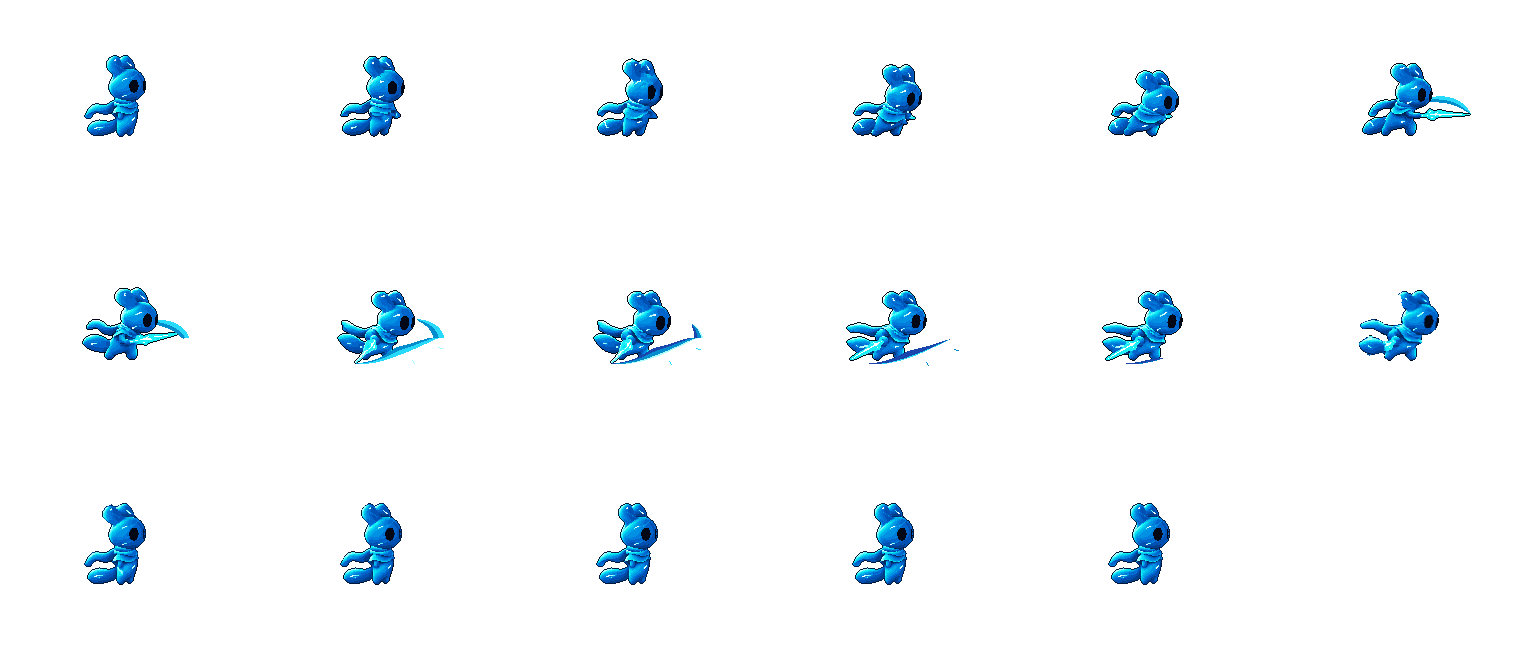
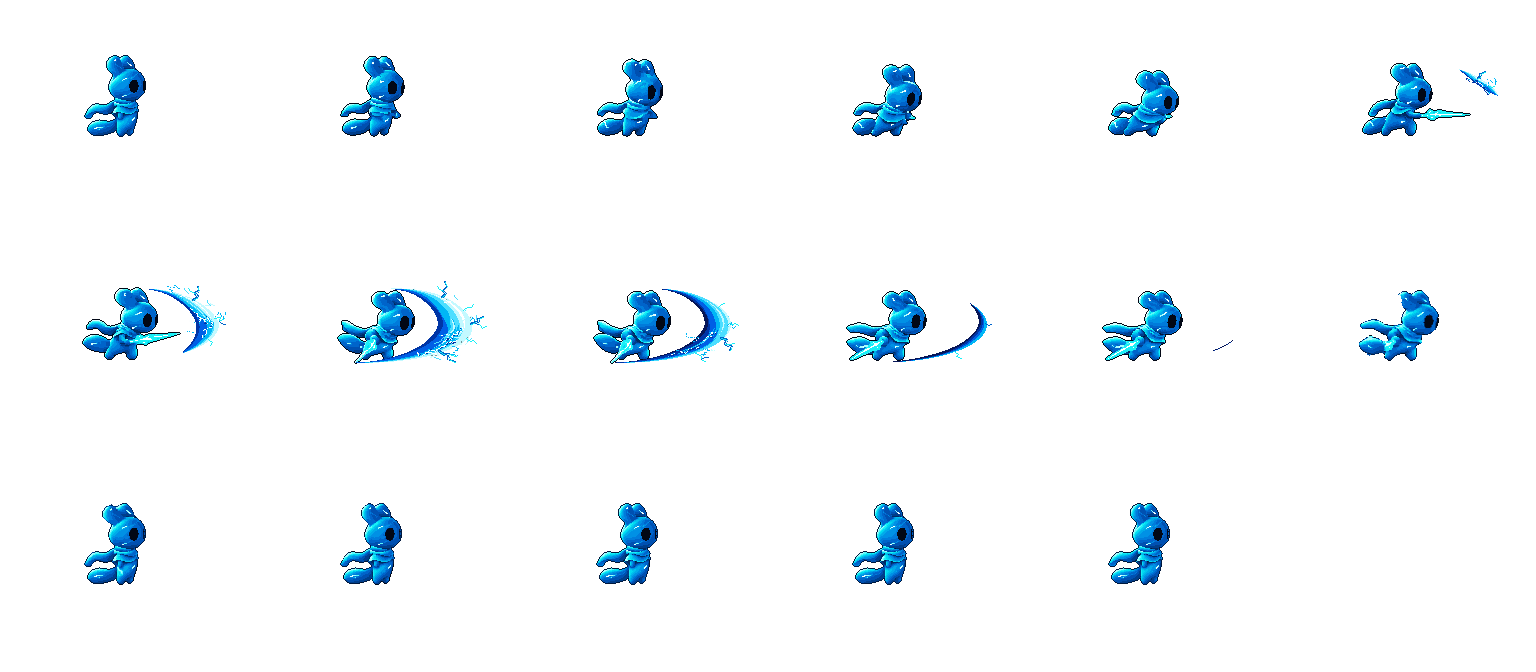
art(warden): 지상 기본 공격에 분기 방전 초승달 적용
사용자가 선택한 베기 효과를 기존 지상 공격 자세 위에 합성했다.
100ms부터 220ms까지 표시하며 준비와 회복 셀을 보존했다.

기존 시트와 대조해 효과가 들어가는 6셀만 바뀐 것을 확인했다.
기본 레벨 SDL 창의 좌우 캡처 10장과 표적 자동 검사 3개를 확인했다.
전체 회귀와 사용자 직접 플레이는 수행하지 않았다.

diff --git a/assets/warden/README.md b/assets/warden/README.md
@@ -7,7 +7,7 @@
 | idle.png | art/warden/provisional-approved/idle-side-wind-v2/idle_right/sheet.png | 6cd0b5133576e6f73cb492a0f36e114c160371c33115bda0272d877f7735d506 |
 | run_left.png | art/warden/provisional-approved/run-v4/run_left/sheet.png | 618ef3377b2682ee6d15ab4052a208f041562adcaed406a0361977ca7460940e |
 | run_right.png | art/warden/provisional-approved/run-v4/run_right/sheet.png | c29d16562b7df8a8ec927b031ef1589bdf6252467afb648f1537af60977fc3aa |
-| attack.png | `art/warden/ground-step-slash-v1`의 준비·타격 재편집, 로컬 LTX 회복 포즈, pixelfx 앞·뒤 베기 효과를 합성 | 3b65e8216153a432c954a5d8853295e21327875cd4a33df1b11c8e187dbfe130 |
+| attack.png | `art/warden/ground-step-slash-v1` 몸체 위에 `art/warden/ground-crescent-discharge-refined/slash.png`의 Pixelfx 분기 방전 초승달을 합성 | 9800402506f74ea51859119e3c6138e9f800197235f13c551397c120c338b942 |
 | air_attack.png | `art/warden/provisional-approved/air-rebound-v9-current-v4/frames` 몸체와 `art/warden/air-rebound-fx-v2/frames` 효과를 합성 | f69202c0f74a4663ad356a426df9d7e92250ea6761aea0b269d8588124599a19 |
 | prepare_idle_left.png | art/warden/provisional-approved/dash-eye-cape-v1/prepare_idle_left/sheet.png | efb9df7c2c976ace57b8a0d2448dac120bf4616e414edaa58bac91e12ae1ce1e |
 | prepare_idle_right.png | art/warden/provisional-approved/dash-eye-cape-v1/prepare_idle_right/sheet.png | 3ba433a4573f4cf45a085579ab10bf5a355c72e528446974023bc0fff342c3d0 |
@@ -32,7 +32,7 @@
 
 프레임은 좌상단부터 행 우선이다. animations.json의 기준점은 셀 좌상단 픽셀, 시간은 밀리초다. 제작용 이벤트·previewSpeed는 게임 규칙으로 가져오지 않았다.
 
-지상 공격은 256×224·6열·17프레임·340ms, 피벗 (128,136)이다. 승인 HK v6·팔 보정 v3의 포즈를 사용하고 타격 자세를 100ms부터 보여준다. 220·240·260ms에 LTX 회복 영상의 4·9·11번 포즈를 고정 배율과 기존 16색으로 변환해 사용한다. 280ms부터 기존 idle 자세로 이어진다. 베기 효과는 원본 해상도에서 그린 45px 높이의 앞·뒤 레이어로, 100ms부터 표시하고 220ms에 걷는다. 제작 원본과 미리보기는 [작업 폴더](../../art/warden/ground-step-slash-v1/contact.png)에 보존한다.
[1 lines of base64/hex data omitted]
 
 공중 공격은 192×192·6열·18프레임·300ms, 피벗 (96,112)이다. 원본 몸체를 유지하고 분리 효과를 칼끝 (156,155)을 기준으로 최근접 보간해 최대 높이 83px로 축소하여 몸체 뒤에 합성했다. 효과는 117ms부터 표시되고 250ms에 사라진다.
 

diff --git a/specs/020-combat-reimplementation/verification.md b/specs/020-combat-reimplementation/verification.md
@@ -119,3 +119,18 @@ $groundSmoke = Join-Path $env:TEMP 'circuit-warden-ground-contact-smoke'
 .\.venv\Scripts\python.exe -B -m tests.smoke.character_smoke --output-dir $groundSmoke
 git diff --check
 ```
+
+## 지상 기본 공격 분기 방전 초승달
+
+- **FR-011** — 2026-11-24 사용자 적용 지시에 따라 선택한 6프레임을 기존 몸체 위에 베이크했다. 기존 시트에서 변경된 셀은 0부터 세어 5~10뿐이다. 기존 몸체 원본에 선택한 효과를 같은 발 피벗으로 합성했고, 새 효과의 높이는 프레임 순서대로 28·69·82·74·59·11px다. PNG를 다시 열어 픽셀 일치와 셀 경계 내 표시를 확인했다.
+- **SC-007** — 기본 실행과 동일한 전원 구역을 실제 SDL 창 1280×720으로 열고 J를 주입했다. 좌우 각 80·100·140·200·220ms 캡처를 열어 비교했다. 80ms에는 효과가 없고 100ms에 첫 방전, 140ms에 최대 초승달, 200ms에 마지막 잔광이 보였으며 220ms에는 사라졌다. 좌측은 우측 자산을 반전해 표시한다. [SDL 캡처](../../.local-tools/verification/ground-attack-discharge/timing-contact.png).
+- **표적 자동 검사** — 아래 지상 공격 입력·좌우 표시·적중 검사 3개가 통과했다. 전체 회귀와 사용자 직접 플레이는 수행하지 않았다.
+- **수렴** — 이번 변경의 명세·계획·작업을 게임 시트, 기본 레벨 런타임 및 검사 근거와 대조했다. 아트 기준·기본 게임플레이·진행 상태·자산 출처를 맞췄다. 런타임 코드와 공중 공격 자산을 수정할 필요는 없었다.
+
+```powershell
+.\.local-tools\python\Scripts\python.exe .local-tools/verification/ground-attack-discharge/bake.py
+.\.venv\Scripts\python.exe .local-tools/verification/ground-attack-discharge/smoke.py
+.\.venv\Scripts\python.exe -m unittest tests.integration.test_character_scene.CharacterSceneTests.test_buffered_ground_attack_preserves_first_composite_frame_after_slow_frame tests.integration.test_character_scene.CharacterSceneTests.test_ground_attack_plants_then_runs_in_latest_direction
+.\.venv\Scripts\python.exe -m unittest tests.integration.test_basic_enemy.BasicEnemySceneTests.test_real_attack_sheet_hits_three_times_in_both_directions
+git diff --check
+```

diff --git a/specs/020-combat-reimplementation/spec.md b/specs/020-combat-reimplementation/spec.md
@@ -41,6 +41,7 @@
 - **FR-008**: 기본 수평 이동과 공중 공격 중의 조향을 빠르게 한다. 대시와 강제 이동에는 기존 전용 수치를 적용한다.
 - **FR-009**: 착지 전 유효한 새 Space 입력과 착지 모션 중 새 Space 입력에 재이륙으로 응답한다. 실제 지면 접촉과 기존 행동 우선순위를 적용하며, 한 번의 입력으로 한 번만 뛴다. 눌렀다 놓은 입력은 짧은 점프를 실행한다.
 - **FR-010**: 지상 기본 공격의 준비와 타격에는 A/D 이동을 멈추고, 이동 키를 유지하면 타격 뒤 회복 중 달리기를 이어간다. 베기 궤적은 검이 전방을 통과할 때 강조하고 회복에 들어서기 전에 빠르게 사라진다.
+- **FR-011**: 사용자가 선택한 분기 방전 초승달을 지상 기본 공격의 몸체 위에 표시한다. 효과는 공격 시작 후 100ms에 나타나고 140ms에 가장 크게 펼쳐지며 220ms에 사라진다. 좌측은 수평 반전한다. 공격 자세, 피해·충돌·입력 규칙과 공중 공격에는 기존 계약을 적용한다.
 
 ## Success Criteria (mandatory)
 
@@ -50,3 +51,4 @@
 - **SC-004**: 열린 평지에서 이륙 지연 50ms 미만, 탭·중간·최대 높이의 순서, 기존 대비 기본 이동 25% 이상 증가를 확인한다. 훈련장의 발판 착지와 벽 정지도 다시 확인한다.
 - **SC-005**: 평지와 발판에서 유효한 선입력은 충돌 시점에 상승으로 전환하고, 만료된 입력은 기본 착지 모션으로 이어진다. 갱신을 나눠도 같은 결과를 얻고 SDL 창에서 Space 입력으로 연속 점프를 확인한다.
 - **SC-006**: 정지·달리기·방향 전환으로 들어간 지상 공격에서 타격 동안 몸통 위치와 공격 방향을 유지하고, 회복 중 최근 방향 입력에 반응한다. 실제 게임 배율에서 검끝의 이동과 베기 궤적을 좌우 모두 확인한다.
+- **SC-007**: 런타임 지상 공격 시트에서 선택한 효과 6프레임의 합성과 준비·회복 셀 보존을 확인한다. 실제 기본 레벨 SDL 창에서 효과의 시작·정점·소멸과 좌우 표시를 확인한다.

diff --git a/docs/progress.md b/docs/progress.md
@@ -6,7 +6,7 @@
 
 - **첫 레벨 전원 구역:** 2026-11-24 사용자 요청으로 컴퓨터 파워서플라이 내부를 기본 실행에 연결하고 환경 원화에 hi-bit 가공을 적용했다. 흡기구, 방열판, 코일·콘덴서, 출력 단자를 배치했다. [명세](../specs/021-power-supply-level/spec.md) · [계획](../specs/021-power-supply-level/plan.md) · [검증](../specs/021-power-supply-level/verification.md).
 
-- **지상 공격 접지·베기 효과 조정:** 사용자 피드백에 따라 지상 타격 중 이동을 멈추고 240ms부터 유지 중인 방향으로 달리기를 이어간다. 기존 타격 포즈 편집과 로컬 생성 회복 자세, 짧은 검끝 궤적을 훈련장에 적용했다. 관련 자동 검사 116개와 SDL 창 검사 두 개를 통과했다. 사용자 직접 조작감과 미술 평가는 남아 있다. [미리보기](../art/warden/ground-step-slash-v1/light.gif) · [검증](../specs/020-combat-reimplementation/verification.md#지상-공격-접지와-베기).
+- **지상 기본 공격 분기 방전 초승달:** 2026-11-24 사용자 요청으로 선택한 효과를 기본 레벨과 훈련장이 공유하는 지상 공격 시트에 적용했다. 효과가 들어가는 6셀을 교체했고, 실제 기본 레벨 SDL 창에서 좌우 시작·정점·소멸을 확인했다. 사용자 직접 플레이 평가는 남아 있다. [합성 미리보기](../art/warden/ground-crescent-discharge-refined/preview-dark-quarter.gif) · [검증](../specs/020-combat-reimplementation/verification.md#지상-기본-공격-분기-방전-초승달).
 
 - **착지 재점프 반응 조정:** 2026-11-23 사용자 피드백에 따라 Celeste의 착지 선입력을 참고했다. 공중 Space를 120ms 동안 저장하고 바닥이나 발판에 닿으면 즉시 재이륙한다. 기본 착지 모션 중 새 Space도 즉시 실행한다. 2단 점프는 보류하며 실제 조작감은 사용자 플레이로 재확인한다. [명세](../specs/020-combat-reimplementation/spec.md) · [검증](../specs/020-combat-reimplementation/verification.md#착지-시점의-재점프).
 

diff --git a/specs/020-combat-reimplementation/plan.md b/specs/020-combat-reimplementation/plan.md
@@ -39,3 +39,7 @@
 ## Follow-up: 지상 공격 접지와 베기
 
 지상 공격 동안 이동 키로 인한 수평 이동을 멈춘다. 이동 입력이 있으면 240ms부터 회복을 달리기로 연결하고, 미입력 시 준비·타격·회복 340ms를 재생한다. 공격 시작과 피해 유효 구간, 공격 방향, 공중 공격의 조향은 기존 규칙을 사용한다. 긴 갱신은 달리기로 전환되는 시각에서 나눠 남은 시간만 수평 이동에 반영한다. 기존 원화로 새 공격 영상을 생성해 접지·검 궤적·디자인을 확인하고, 통과한 자세를 같은 피벗·크기로 쓴다. 효과는 검이 전방을 통과하는 핵심 구간에 맞춰 베이크한다. 검증은 좌우 입력·회복 전환·타격과 벽 접촉·SDL 캡처를 포함한다. 기준 문서와 게임 시트 출처를 갱신한다.
+
+## Follow-up: 분기 방전 초승달 적용
+
+사용자가 적용을 지시한 Pixelfx 분기 방전 초승달의 224×208·6셀을 기존 몸체 위에 발 피벗으로 정렬해 `assets/warden/attack.png`에 베이크한다. 현재 시트의 256×224·6열·17프레임 및 (128,136) 피벗과 기존 재생 코드를 사용한다. 효과 전후 셀을 바이트 단위로 대조하고 기본 레벨의 실제 SDL 창에서 지상 공격만 좌우로 확인한다. 아트 기준, 기본 게임플레이, 진행 상태, 자산 출처와 검증 기록을 맞춘다.

diff --git a/docs/systems/basic-gameplay.md b/docs/systems/basic-gameplay.md
@@ -23,7 +23,7 @@ idle ↔ run은 실제 이동 여부로 결정한다. idle/run → attack은 왼
 
 속도·배율·바닥선·경계는 [기술 구조](../architecture.md)를 따른다. 지상 340ms, 공중 300ms 시트를 사용하고 왼쪽 베기는 수평 반전한다. 캐릭터와 효과 출처는 [아트 기준](../art-direction.md#게임에서-사용하는-캐릭터-자산)을 따른다. 표적 검사와 실제 SDL 창 결과는 [검증 기록](../../specs/020-combat-reimplementation/verification.md)에 둔다.
 
-지상 베기 효과는 타격 구간이 열리는 100ms에 시작해 220ms에 사라지며 최대 높이는 45월드 단위다. 공중 베기는 117ms부터 보이며 최대 높이는 83월드 단위다. 공격이 취소되면 효과도 함께 끝난다. 접촉과 적중 효과는 [기본 적 전투](basic-enemy.md)가 소유한다.
+지상 베기의 분기 방전 초승달은 타격 구간이 열리는 100ms에 시작해 140ms에 최대 높이 82월드 단위로 펼쳐지고 220ms에 사라진다. 공중 베기는 117ms부터 보이며 최대 높이는 83월드 단위다. 공격이 취소되면 효과도 함께 끝난다. 접촉과 적중 효과는 [기본 적 전투](basic-enemy.md)가 소유한다.
 
 ### 공중 공격
 

diff --git a/specs/020-combat-reimplementation/tasks.md b/specs/020-combat-reimplementation/tasks.md
@@ -15,3 +15,6 @@
 - [x] T013 [FR-010] 새 동작을 품질 검토하고 게임 시트 `assets/warden/attack.png`와 베기 효과를 정리한다.
 - [x] T014 [SC-006] 지상·공중 공격, 타격과 이동 전환을 자동 검사와 실제 SDL 창에서 확인한다.
 - [x] T015 기준 문서·진행 상태·검증 기록을 갱신하고 커밋한다.
+- [x] T016 [FR-011] 선택한 분기 방전 초승달 6프레임을 `assets/warden/attack.png`의 지상 베기에 적용한다.
+- [x] T017 [SC-007] 시트 합성과 준비·회복 셀을 비교하고 기본 레벨 SDL 창에서 타이밍·좌우를 확인한다.
+- [x] T018 기준 문서·자산 출처·진행 상태·검증 기록을 갱신하고 검증한 증분을 커밋한다.
